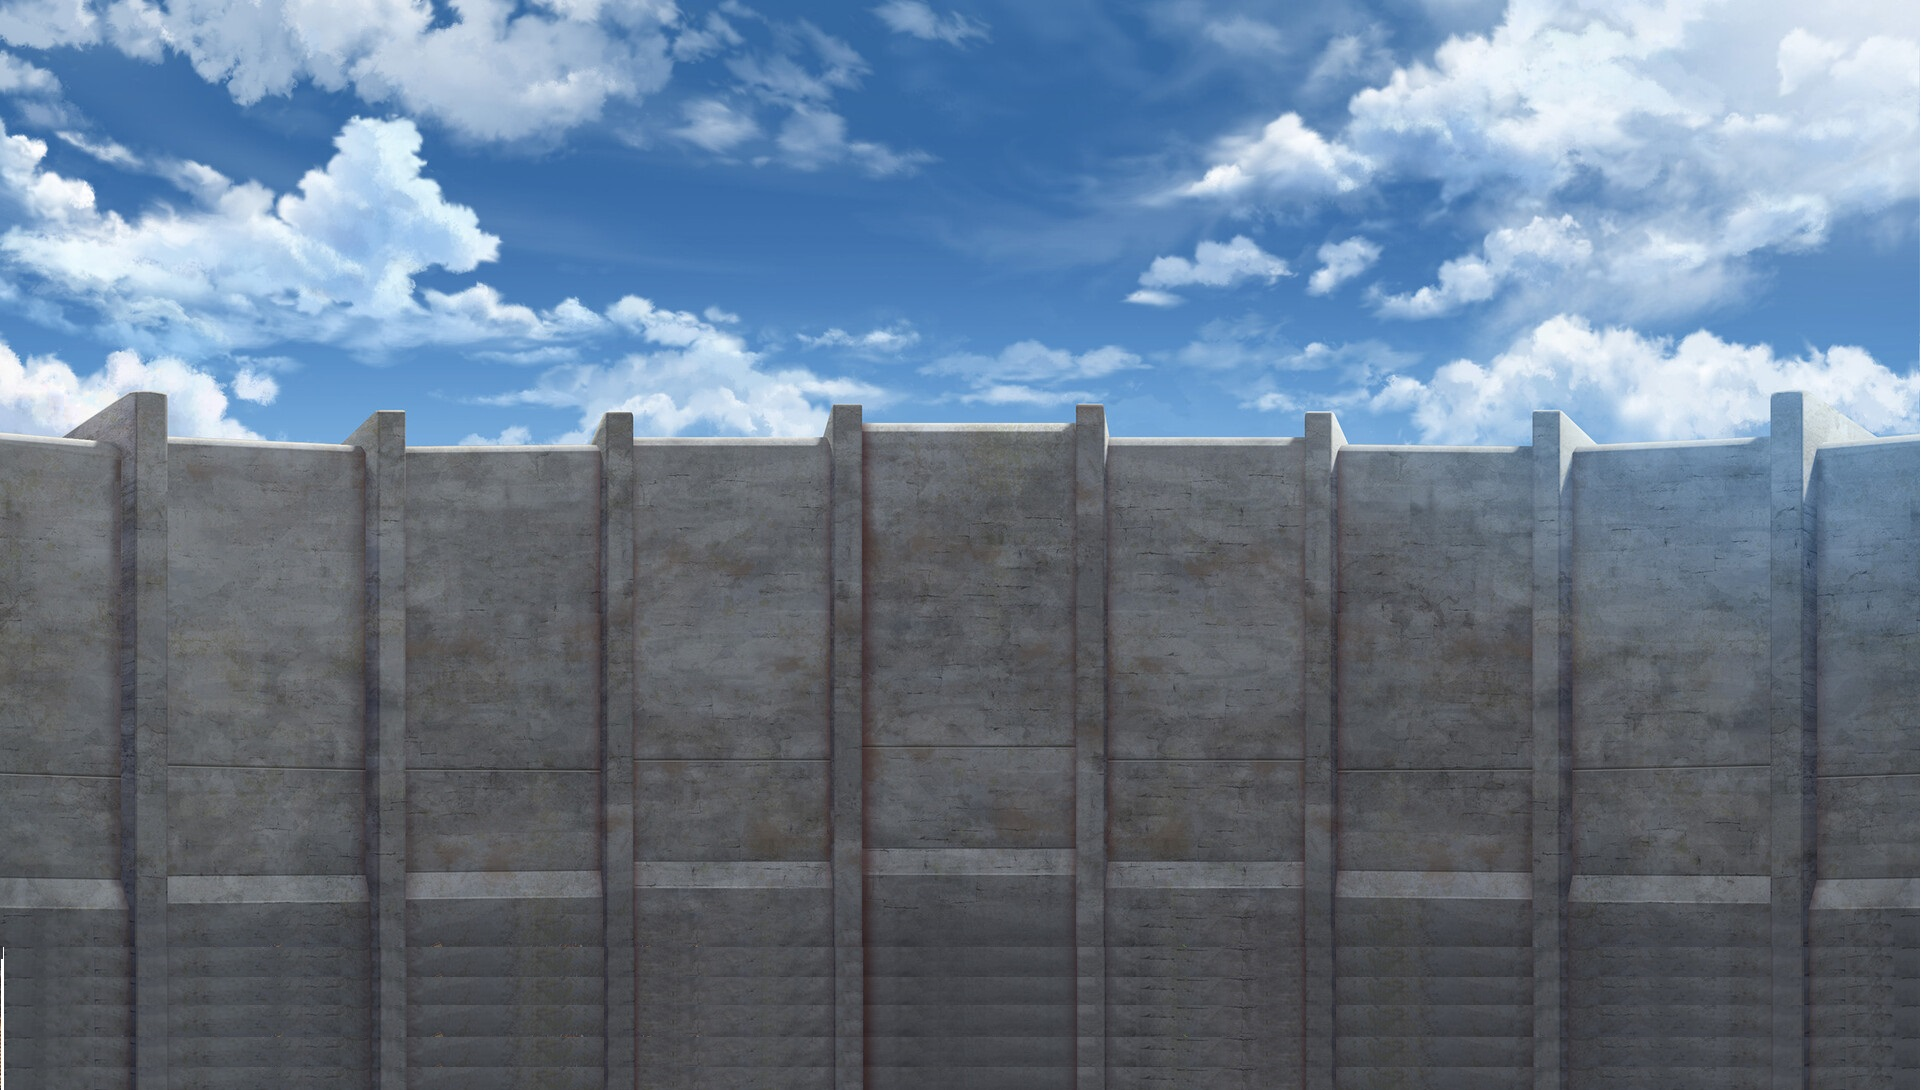
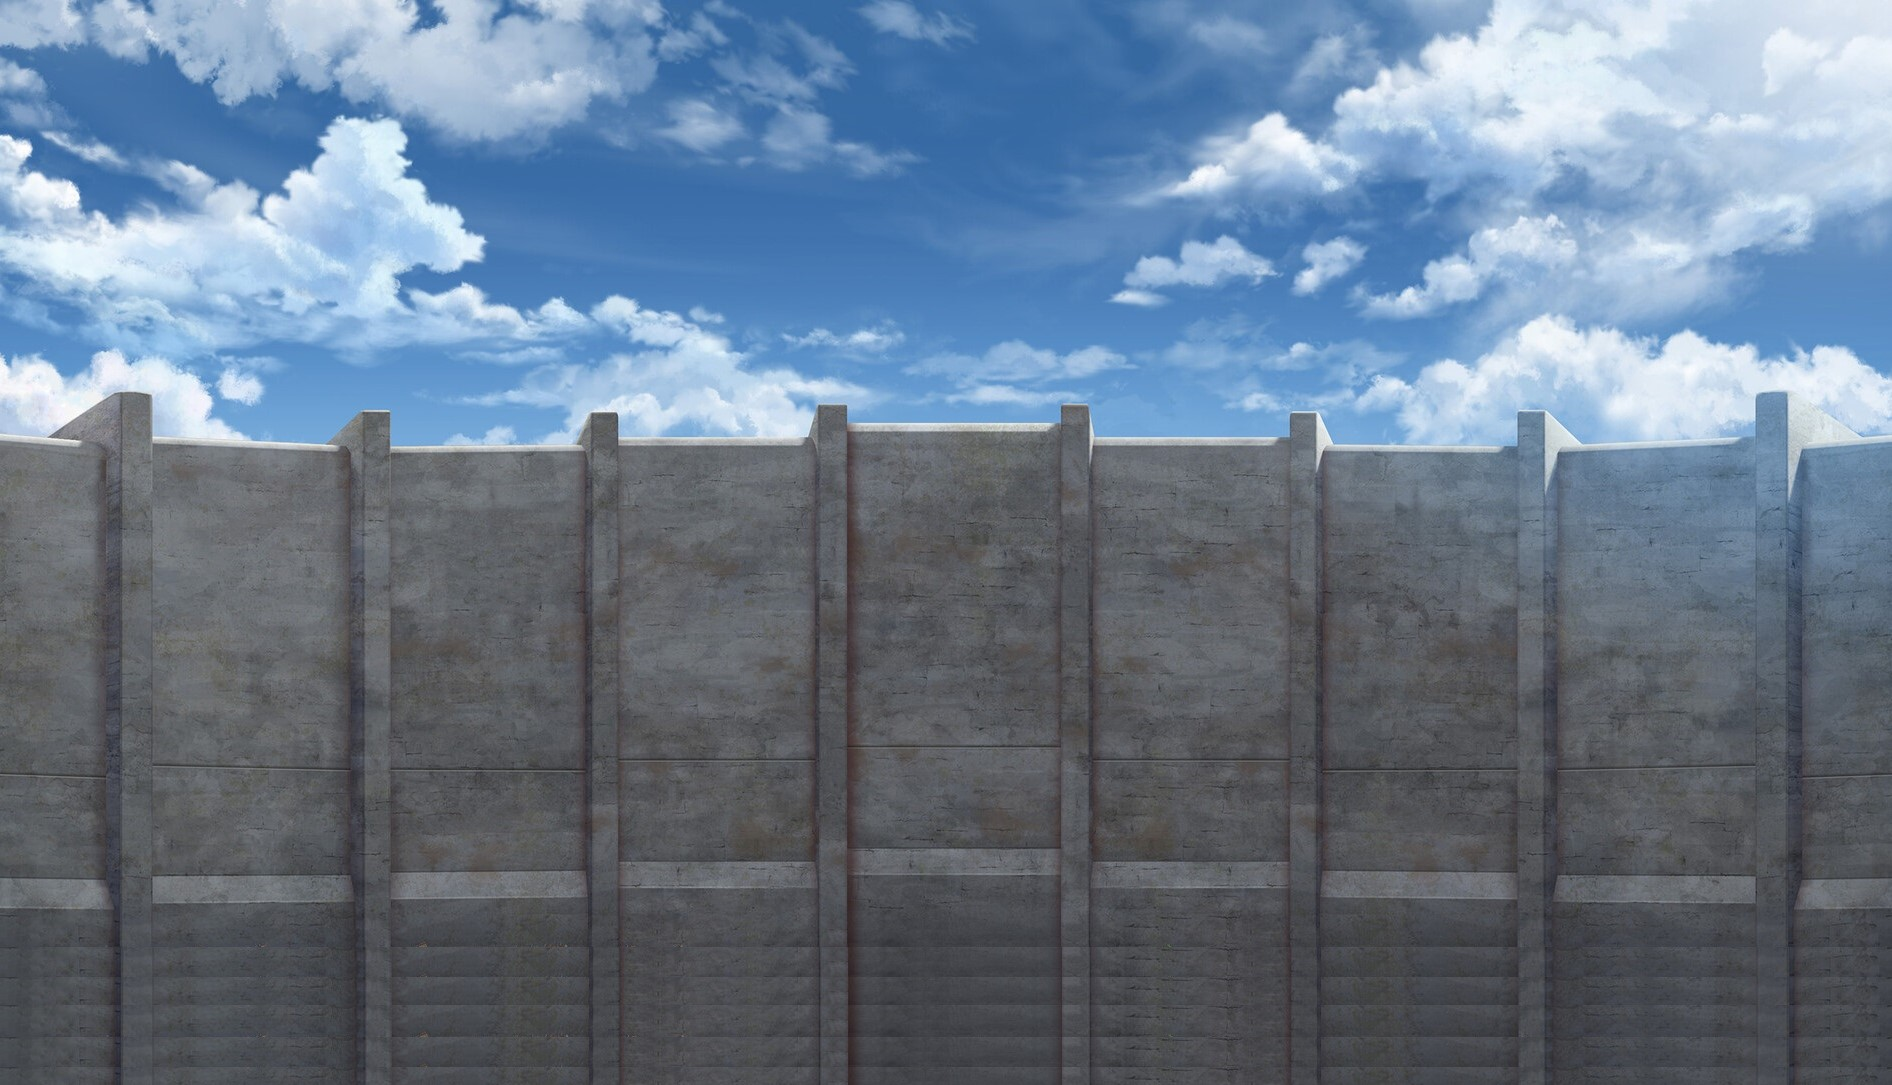
edit background

diff --git a/js/game.js b/js/game.js
@@ -1,6 +1,6 @@
 
 var Eren = new Characters(characterID, "Eren jeager", 60, 1, ErenJumpPhotosArray, ErenMovePhotosArray, document.getElementById("defenderPhotos"));
-
+var createdBackground = 0;
 /****** Hossam Multible enemy edit ******/
 var enemy1 = new Enemy(enemyPhotosArray, 120, 0);
 var enemy2 = new Enemy(enemyPhotosArray, 120, 1);
@@ -8,7 +8,10 @@ var enemy3 = new Enemy(enemyPhotosArray, 120, 2);
 /****** Hossam Multible enemy edit ******/
 
 //var initBuilding = new Building("demo1.png", 600, 600, "0px", "100px");
-var building2 = new Building("back2.jpg", 1540, 760, "0px", "0px");
+var background1 = new Building("back2.jpg", 1536, 760, "0px", "4.5px");
+var background2 = new Building("back3.jpg", 1536, 760, "-1590px", "0px");
+
+//var background2 = new Building("back2.jpg", 1540, 760, "1550px", "0px");
 //var building2 = new Building("houses.png", 800, 800, "800px", "35px");
 // var building2 = new Building("houses.png", 500, 800, "1060px", "35px");
 var floorPosetionX = 0;
@@ -66,6 +69,10 @@ function stateMachine() {
 document.addEventListener("keydown", KeyListen);
 /*jumpKeyListenerID = document.addEventListener("keydown" , KeyListen);*/
 function KeyListen(jumpObject) {
+    // if (!createdBackground) {
+    //     var background2 = new Building("back2.jpg", 1540, 760, "1550px", "0px");
+    //     createdBackground = 1;
+    // }
     if (jumpObject.keyCode == 38) {
         if (EREN_STATE == MOVING)
             EREN_STATE = JUMP_FROM_MOVE_FORWARD;
@@ -91,19 +98,28 @@ $(document).keydown(function (e) {
     switch (e.keyCode) {
         case 39:
             $(".build-img").each((i) => {
-                var position = $(".build-img")[i].style.left;
+                var position = parseInt($(".build-img")[i].style.left);
+                if (position < -1500) {
+                    position = 1536;
+                }
+
                 //right 
-                $(".build-img")[i].style.left = parseInt(position) - 20 + "px";
+                $(".build-img")[i].style.left = position - 20 + "px";
+            })
+            $(".floor-img").each((i) => {
+                var position = parseInt($(".floor-img")[i].style.left);
+                if (position < -500) {
+                    position = 500;
+                }
+
+                //right 
+                $(".floor-img")[i].style.left = position - 20 + "px";
             })
     }
 });
 
 // Build floor
-for (let i = 0; i < 3; i++) {
+for (let i = 0; i < 4; i++) {
     var floor1 = new Building("floor.png", 500, 150, floorPosetionX, "0px");
-    // $(".floor").append("<img src='image/background/floor.png' alt='floor' class='floorImage'>");
-    // $('.floor .floorImage:eq(' + i + ')').css("left", floorPosetionX);
     floorPosetionX += 520;
-
-    console.log($(".floor").css('height'));
 }

diff --git a/js/base-classes/enemy.js b/js/base-classes/enemy.js
@@ -5,16 +5,14 @@ var character = [];
 
 class Enemy {
     //static id = 0;
-    constructor(images, speed,id) {
+    constructor(images, speed, id) {
         this.images = images;
         this.speed = speed;
         this.id = id
     }
 
     move() {
-        console.log(this.id);
         character[this.id] = document.createElement("img");
-       // id += 1;
         var body = document.getElementsByTagName("body")[0];
 
         character[this.id].classList.add("enemy");
@@ -23,7 +21,7 @@ class Enemy {
 
         body.appendChild(character[this.id]);
 
-        var pos = window.outerWidth;  
+        var pos = window.outerWidth;
         character[this.id].style.left = pos + "px";
 
         var id = setInterval(frame, this.speed);
@@ -33,7 +31,7 @@ class Enemy {
         function frame() {
             if (pos <= -160) {
                 //clearInterval(id);
-                pos = window.outerWidth; 
+                pos = window.outerWidth;
             }
             else {
                 character[idd].src = "image/characters/enemy-" + img[i];

diff --git a/js/base-classes/building.js b/js/base-classes/building.js
@@ -10,17 +10,24 @@ class Building {
         this.positiony = positiony;
         this.forward = 0;
 
-        $("#game").append("<img id='build" + this.id + "' class='build-img'></img>");
+        if (this.id > 2) {
+            $("#game").append("<img id='build" + this.id + "' class='build-img'></img>");
+            $("#build" + this.id).css("z-index", 3);
+        }
+
+        $("#game").append("<img id='build" + this.id + "' class='floor-img'></img>");
         $("#build" + this.id).attr('src', "image/Buildings/" + images);
         $("#build" + this.id).css("left", positionx);
         $("#build" + this.id).css("bottom", positiony);
         $("#build" + this.id).css("width", width);
         $("#build" + this.id).css("height", height);
 
-        if (this.id > 1) {
+        if (this.id > 2) {
             $("#build" + this.id).css("z-index", 3);
         }
 
     }
+
+
 
 }
